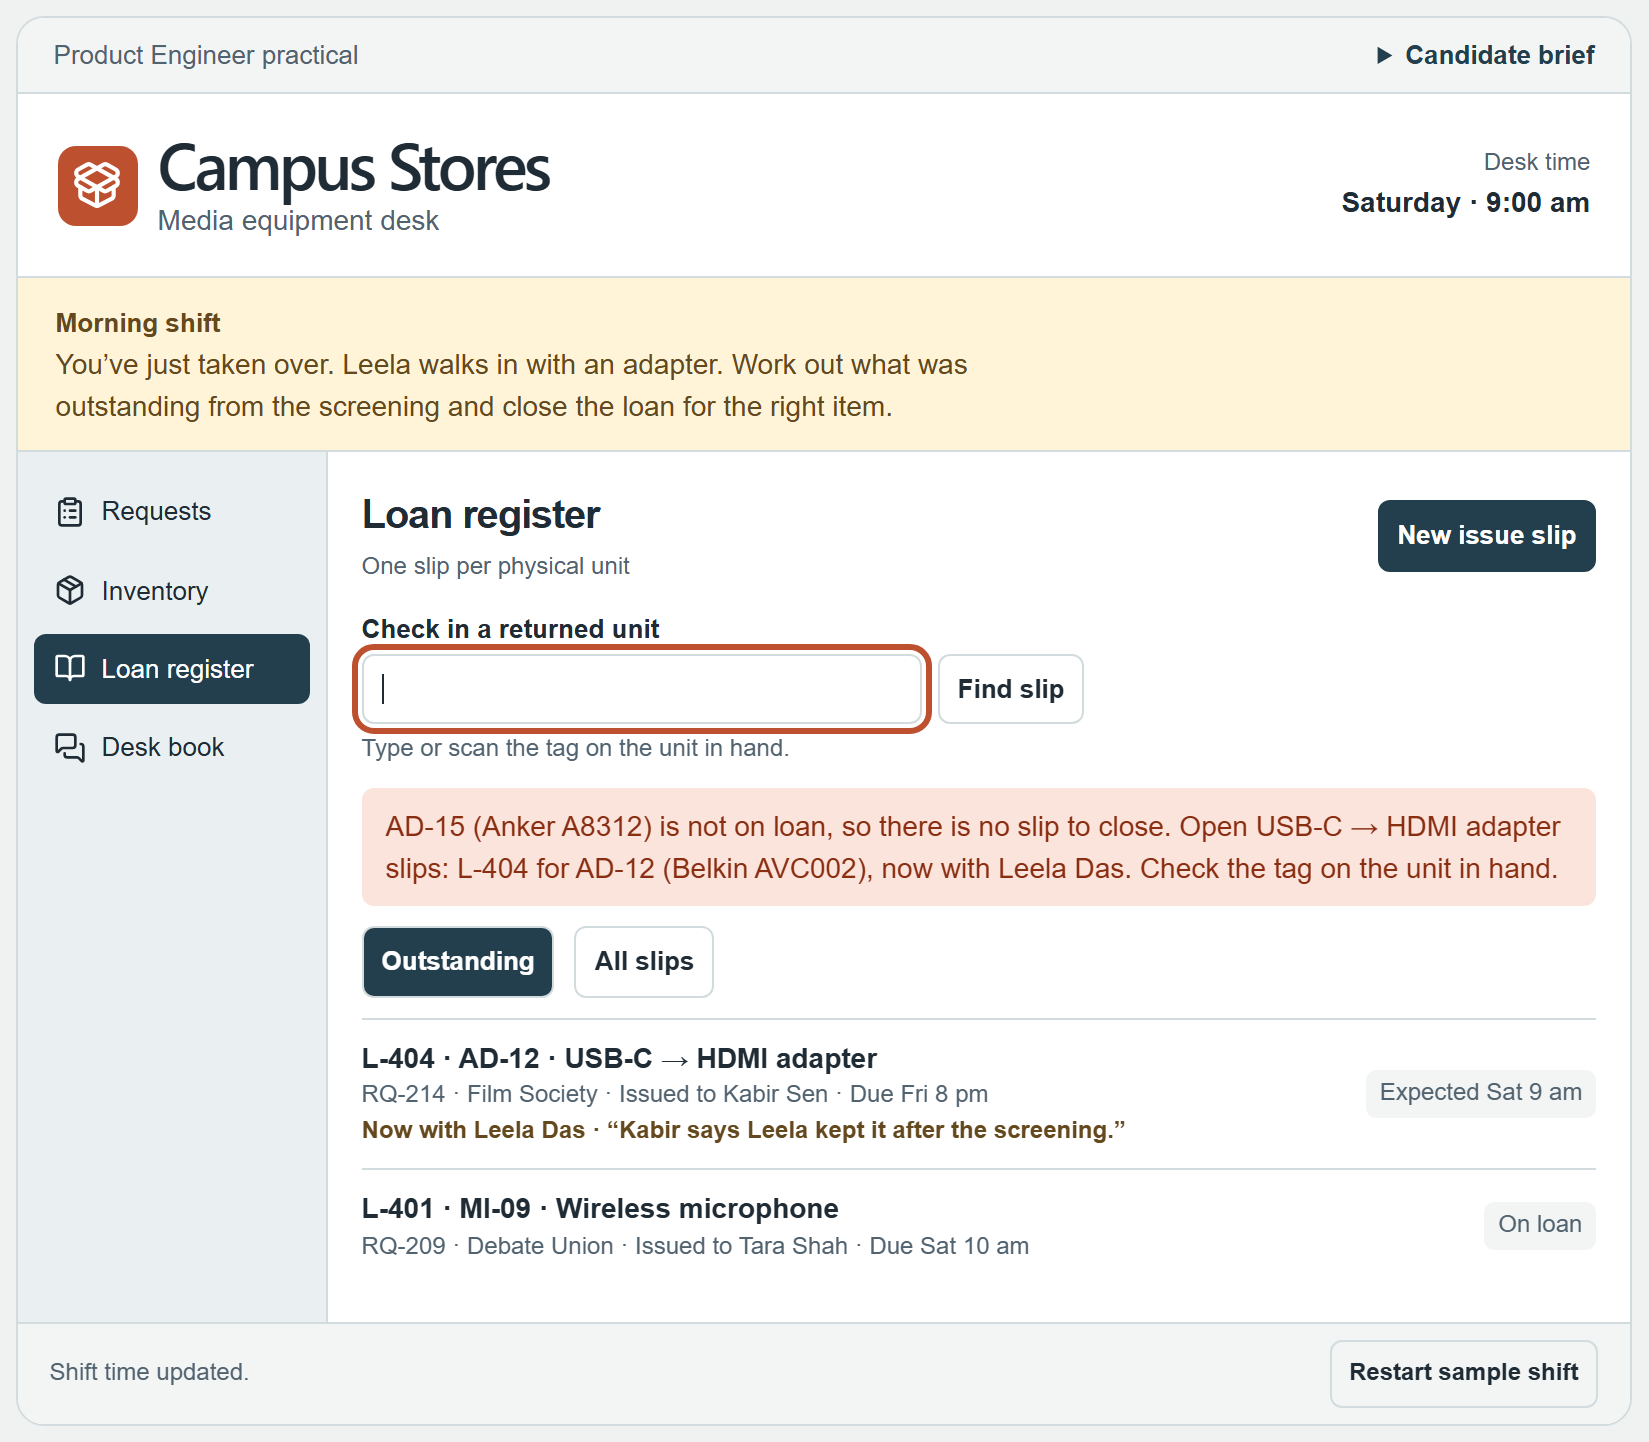
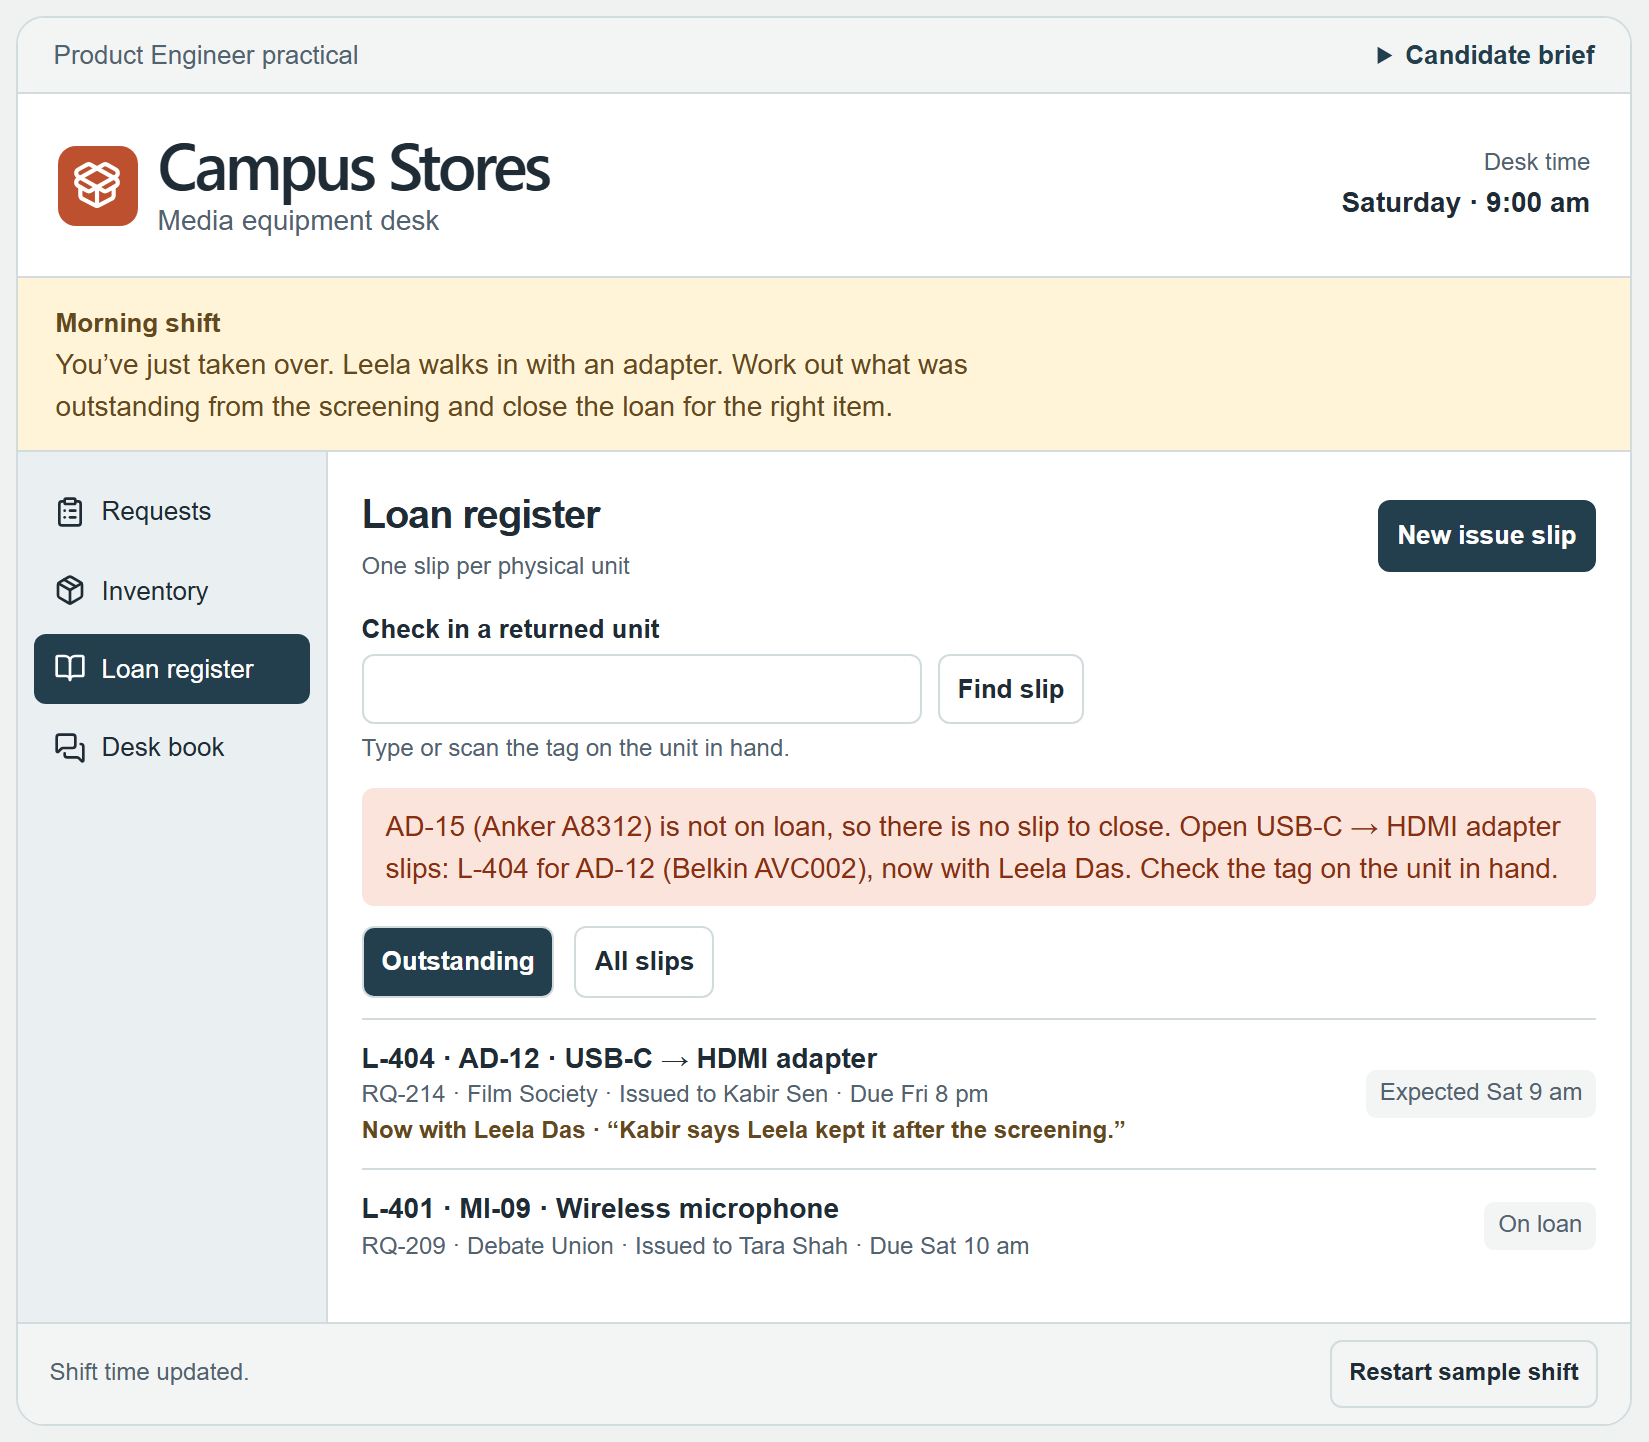
Answer the brief up front and show the holder in Inventory
- README opens with an explicit verdict (keep it) and a table that
  answers each ask in the brief: the moment it handles well, the moment
  to change, the change and the real-counter observation. Details
  follow.
- Present the prototype as one change at two moments: capture the
  handover at 7:30 pm, then close against the unit in hand at 9:00 am.
  Add a handover checklist (visible, owned, actionable, picked up),
  a note on reading tags in the simulation versus scanning them at a
  real desk, and the worn-label fallback to the list of things left
  out.
- Inventory rows for units on loan now show the slip and who has the
  unit, so the handover is visible wherever the next clerk looks.
- Match the original Prettier formatting and refresh the screenshots.

diff --git a/app.js b/app.js
@@ -89,8 +89,13 @@
     ["Loan register", "book-open"],
     ["Desk book", "messages-square"],
   ];
-  // Hours from the start of Friday, so return times can be compared with desk time.
-  const hours = { "Fri 8 pm": 20, "Sat 9 am": 33, "Sat 10 am": 34, "Sat noon": 36 };
+  // Hours from the start of Friday, so return times compare with desk time.
+  const hours = {
+    "Fri 8 pm": 20,
+    "Sat 9 am": 33,
+    "Sat 10 am": 34,
+    "Sat noon": 36,
+  };
   const deskHours = [15.75, 19.5, 33];
   const returnTimes = Object.keys(hours);
   const original = () => ({
@@ -233,15 +238,19 @@
       ) +
       "</select></label></div>";
     for (const a of assets) {
+      const l = out(a.id);
       const status = a.repair
         ? "In repair"
-        : out(a.id)
+        : l
           ? "On loan"
           : "On shelf";
       if (s.filter !== "All items" && s.filter !== status) continue;
       html += row(
         a.id + " · " + a.type,
-        a.model + " · " + a.bin,
+        a.model +
+          " · " +
+          a.bin +
+          (l ? " · L-" + l.num + " · With " + (l.holder || l.who) : ""),
         badge(status, status === "On shelf"),
       );
     }
@@ -321,8 +330,7 @@
     const r = getReq(l.req);
     let detail = "";
     if (l.back && l.backBy)
-      detail =
-        "Returned by " + l.backBy + " · " + shifts[l.backPhase].time;
+      detail = "Returned by " + l.backBy + " · " + shifts[l.backPhase].time;
     else if (!l.back && l.holder)
       detail =
         "Now with " +
@@ -333,10 +341,16 @@
       '<div class="row"><div><strong>' +
       esc("L-" + l.num + " · " + unitName(l.asset)) +
       "</strong><small>" +
-      esc(r.id + " · " + r.club + " · Issued to " + l.who + " · Due " + l.due) +
+      esc(
+        r.id + " · " + r.club + " · Issued to " + l.who + " · Due " + l.due,
+      ) +
       "</small>" +
       (detail
-        ? '<small class="' + (l.back ? "" : "handover") + '">' + esc(detail) + "</small>"
+        ? '<small class="' +
+          (l.back ? "" : "handover") +
+          '">' +
+          esc(detail) +
+          "</small>"
         : "") +
       "</div><div>" +
       (l.back

diff --git a/README.md b/README.md
@@ -1,10 +1,17 @@
 # Campus Stores
 
-> **Reviewers:** my submission is below, under [Candidate submission](#candidate-submission). To try it, run the app (see [Run the app](#run-the-app)), click **Restart sample shift**, and work the Film Society shift. The changes are in `app.js` and `styles.css`, and the screenshots are in `docs/`.
+> **Reviewers:** my submission is the section below. To try it, open `index.html` (see [Run the app](#run-the-app)), click **Restart sample shift**, and work the Film Society shift. The changes are in `app.js` and `styles.css`, and the screenshots are in `docs/`.
 
 ## Candidate submission
 
-**Decision:** keep the one-slip-per-unit register. Change how a loan crosses a shift boundary. Who has an item, and when it's coming back, should be written on the slip itself. And a slip should only close against the tag on the unit that's actually on the counter.
+**Would I keep this product? Yes.** Its core decision, one slip per physical unit, is right, and it carried the hardest moment of the shift. Where it breaks is the shift boundary, and that can be fixed without touching the core.
+
+| The brief asks for | My answer |
+| :-- | :-- |
+| A moment it handles well | **Fri 7:30 pm, the partial return.** I closed the projector and speaker slips. The adapter's slip, L-404, stayed open on its own because every unit has its own slip. |
+| A moment I'd change | **Sat 9:00 am, the handover.** Leela was at the counter, but L-404 still said "Kabir Sen · Due Fri 8 pm". **Record return** was one click with no undo. A double-click also closed Tara's microphone loan while she still had it. |
+| My change | **Put the handover on the slip.** At 7:30 pm the register asks who has the rest and when they'll bring it back. At 9:00 am you close the slip by the tag on the unit in your hand. |
+| One observation at a real counter | Can the morning clerk close a carried-over return without leaving the Loan register, and without asking anyone whose it is? |
 
 ### The shift I worked (original app)
 
@@ -12,13 +19,11 @@
 - **Fri 7:30 pm, partial return.** I recorded returns on L-402 and L-403. Kabir said Leela had the adapter and would bring it at nine. L-404 had nowhere to put that, so I wrote it in the Desk book.
 - **Sat 9:00 am, morning shift.** The register showed `L-404 · AD-12 — RQ-214 · Kabir Sen · Due Fri 8 pm` above Tara's microphone. Each row had a **Record return** button.
 
-### A moment it handles well (keep)
+### Keep: the partial return just worked
 
-**7:30 pm: the kit came back in pieces, and the register didn't care.** Every physical unit has its own slip, so closing L-402 and L-403 left L-404 open with no workaround. Inventory immediately showed PR-04 and SP-02 on the shelf and AD-12 still on loan. In the morning, exactly one Film Society item was outstanding. With one slip per request I'd have had two bad choices: close the whole kit and lose track of the adapter, or leave it all open and claim the projector was still out. Pickup was guarded the same way. With fifteen minutes before the film, the form only offered units that could actually leave, and it refused one the club hadn't been approved for.
+Closing L-402 and L-403 left L-404 open with no workaround. Inventory immediately showed PR-04 and SP-02 on the shelf and AD-12 still on loan, and in the morning exactly one Film Society item was outstanding. With one slip per request I'd have had two bad choices: close the whole kit and lose track of the adapter, or leave it all open and claim the projector was still out. Pickup was guarded the same way. With fifteen minutes before the film, the form only offered units that could actually leave, and it refused one the club hadn't been approved for.
 
-### A moment I'd change
-
-**9:00 am: Leela was at the counter, and nothing on L-404 connected her to it.**
+### Change: nothing on L-404 connected Leela to it
 
 ![Original register at 9:00 am](docs/before-0900-register.png)
 
@@ -26,26 +31,41 @@
 - L-404 said `AD-12 · Kabir Sen · Due Fri 8 pm`. It didn't mention Leela, didn't say "adapter", and didn't say it was 13 hours late. To work out that her adapter was L-404, I read the Desk book and then looked AD-12 up in Inventory. AD-12 and AD-15 are two different adapters in the same bin, C4.
 - **Record return** is one click. It doesn't check which unit is on the counter or record who brought it back, and it can't be undone. I double-clicked it: the first click closed L-404, the list reflowed, and the second click closed **L-401, Tara's microphone, which was still with Tara**. Inventory then showed MI-09 on the shelf.
 
-### The change: the handover lives on the slip
+### The prototype: one change, two moments
 
-1. **Check in by tag.** One field replaces the per-row return buttons: *Check in a returned unit — type or scan the tag on the unit in hand.* Entering `AD-12` (or `ad12`, or a scan) opens that slip. The card shows the model, the shelf it goes back to, who it was issued to and any handover. *Returned by* is preselected to the person the slip says is bringing it back. Closing the slip records who returned it and when. A tag with no open slip is stopped, and the message names the slip you probably meant. With no row buttons, a double-click can't close someone else's loan.
-2. **"Who has the rest?"** When a request has some units back and some still out, the register asks who has the rest. The fields are *Now with*, *Back at the counter* and an optional note, and the answer is saved onto those slips. A matching entry goes in the Desk book, which stays the log. The prompt stays up until the answer is on the slips. If the evening shift skips it, the morning shift sees the open question, plus an **Overdue** tag.
-3. **Slips that read on their own.** Each row names the equipment, the club and the current holder, with an *Expected Sat 9 am* or *Overdue* tag. The Outstanding list is sorted by who is due at the counter next.
+**At 7:30 pm, the slip captures the handover.** When a request has some units back and some still out, the register asks **Who has the rest?** The fields are *Now with*, *Back at the counter* and an optional note. Saving writes the answer onto those slips, and a matching entry goes in the Desk book, which stays the log. The prompt stays up until the answer is on the slips. If the evening shift skips it, the morning shift sees the open question, plus an **Overdue** tag.
+
+**At 9:00 am, the slip closes against the unit in hand.** One field replaces the per-row return buttons: *Check in a returned unit — type or scan the tag on the unit in hand.* Entering `AD-12` (or `ad12`) opens that slip. The card shows the model, the shelf it goes back to, who it was issued to and the handover. *Returned by* is preselected to whoever the slip says is bringing it back. A tag with no open slip is stopped, and the message names the slip you probably meant. With no row buttons, a double-click can't close someone else's loan.
+
+So that the slip reads on its own wherever you look, each row names the equipment, the club, the current holder and an *Expected* or *Overdue* tag. Outstanding is sorted by who is due at the counter next, and Inventory shows the slip and holder for anything on loan.
+
+> **In the simulation** there's no adapter on the counter, so type the tag you'd read off it. At a real desk the label is on the unit. A USB barcode scanner types the tag and presses Enter, so check-in becomes one scan. That's the low-cost version of the tagging used in library circulation systems.
 
 ### Walkthrough: the same job with the change
 
 - **3:45 pm.** Unchanged: three slips.
-- **7:30 pm.** Type `PR-04`, then **Close slip** (returned by Kabir Sen). Do the same for `SP-02`. The register asks *RQ-214 · 2 of 3 units back — Who has the rest?* with L-404 ticked. Pick Leela Das and Sat 9 am, add a note, then **Save on slip**.
+- **7:30 pm.** Check in `PR-04` and then `SP-02`. Each one is a single **Close slip**, returned by Kabir Sen. The register asks *RQ-214 · 2 of 3 units back — Who has the rest?* with L-404 ticked. Pick Leela Das and Sat 9 am, add a note, then **Save on slip**.
 
   ![Who has the rest? prompt at 7:30 pm](docs/after-1930-who-has-the-rest.png)
 
-- **9:00 am.** The top row reads *L-404 · AD-12 · USB-C → HDMI adapter — Now with Leela Das — Expected Sat 9 am*. Leela hands over the adapter. I type the tag on it, `AD-12`. The card shows the handover, *Shelve in C4* and *Returned by Leela Das*. **Close slip L-404.** Tara's loan isn't touched.
+- **9:00 am.** The top row reads *L-404 · AD-12 · USB-C → HDMI adapter — Now with Leela Das — Expected Sat 9 am*. Leela hands over the adapter and I check in `AD-12`. The card shows the handover, *Shelve in C4* and *Returned by Leela Das*. **Close slip L-404.** Tara's loan isn't touched.
 
   ![Checking in AD-12 at 9:00 am](docs/after-0900-check-in.png)
 
-  If the adapter on the counter is actually AD-15:
+  If the adapter on the counter is actually AD-15, the check-in stops:
 
   ![Wrong adapter caught](docs/after-0900-wrong-adapter.png)
+
+### Why this shape
+
+Shift-handover studies from hospitals and airport ground handling keep coming back to a few conditions for unfinished work to survive a shift change. I used them as a checklist:
+
+| A handover needs | Before | After |
+| :-- | :-- | :-- |
+| Unfinished work that's visible | A free-text note on another tab | "Who has the rest?" stays up until it's answered, and an Overdue tag shows if it never is |
+| A named owner | The slip says Kabir | The slip says "Now with Leela Das" |
+| A next action | None | Expected Sat 9 am, check in by tag, Shelve in C4 |
+| Pickup by the next shift | Read the Desk book and piece it together | The Outstanding list opens on who is due at the counter next |
 
 ### What I kept
 
@@ -56,18 +76,19 @@
 
 ### What I left out on purpose
 
-- **Undo for a closed slip.** The tag check and confirmation remove the one-click path. Undo comes next if mis-closes still happen at the counter.
-- **Condition check on return** (working / needs repair). It belongs in the same check-in card, but this shift had no damaged kit to test it against.
+- **A fallback for a worn label**, such as finding the slip by number with a second confirmation. A real desk will need it, but this shift didn't.
+- **Undo for a closed slip.** The tag check removes the one-click path. Undo comes next if mis-closes still happen.
+- **Condition check on return** (working / needs repair). Equipment-loan systems check condition at issue and at return, and it belongs in this same check-in card. This shift had no damaged kit to test it against.
 - **Faster pickup.** Issuing one request cost 12 dropdown choices, but pickup wasn't where this shift broke.
-- **An "acknowledge handover" button.** Handover research stresses that the incoming shift has to actively take on the open work. A button nobody reads doesn't do that. Leading the morning register with the expected returns does.
+- **An "acknowledge handover" button.** A button nobody reads isn't a pickup. Opening the morning register on the expected returns does that job.
 
 ### One observation at a real counter
 
-Watch the first carried-over return of a morning shift, when someone other than the borrower brings back part of a kit. **Does the clerk get from "here's the adapter" to a closed slip without leaving the Loan register, and without asking anyone whose it is?** If they still open the Desk book, ask the borrower which booking it was, or message the evening clerk, the handover isn't reaching them.
+Watch the first carried-over return of a morning shift, when someone other than the borrower brings back part of a kit. **Does the clerk get from "here's the adapter" to a closed slip without leaving the Loan register, and without asking anyone whose it is?** If it helped, they check in the tag and close the slip. If it didn't, they still open the Desk book, ask the borrower which booking it was, or message the evening clerk.
 
 ### How I worked
 
-I worked the whole shift by hand on the original first and logged each action. That log is the evidence above. I also read about equipment-loan systems and shift handover in healthcare and ground handling. Three ideas from that reading shaped the change: unfinished work should be visible where the next person looks, it should have a named owner, and it should come with a clear next action. I built the change with help from an AI coding assistant (Claude Code) and tested it by walking the shift in the browser at desktop and phone widths, in light and dark themes.
+I worked the whole shift by hand on the original first and logged each action. That log is the evidence above. My background reading on equipment-loan systems and shift handover gave me the checklist above. I built the change with help from an AI coding assistant (Claude Code) and tested it by walking the shift in the browser at desktop and phone widths, in light and dark themes.
 
 ---
 
